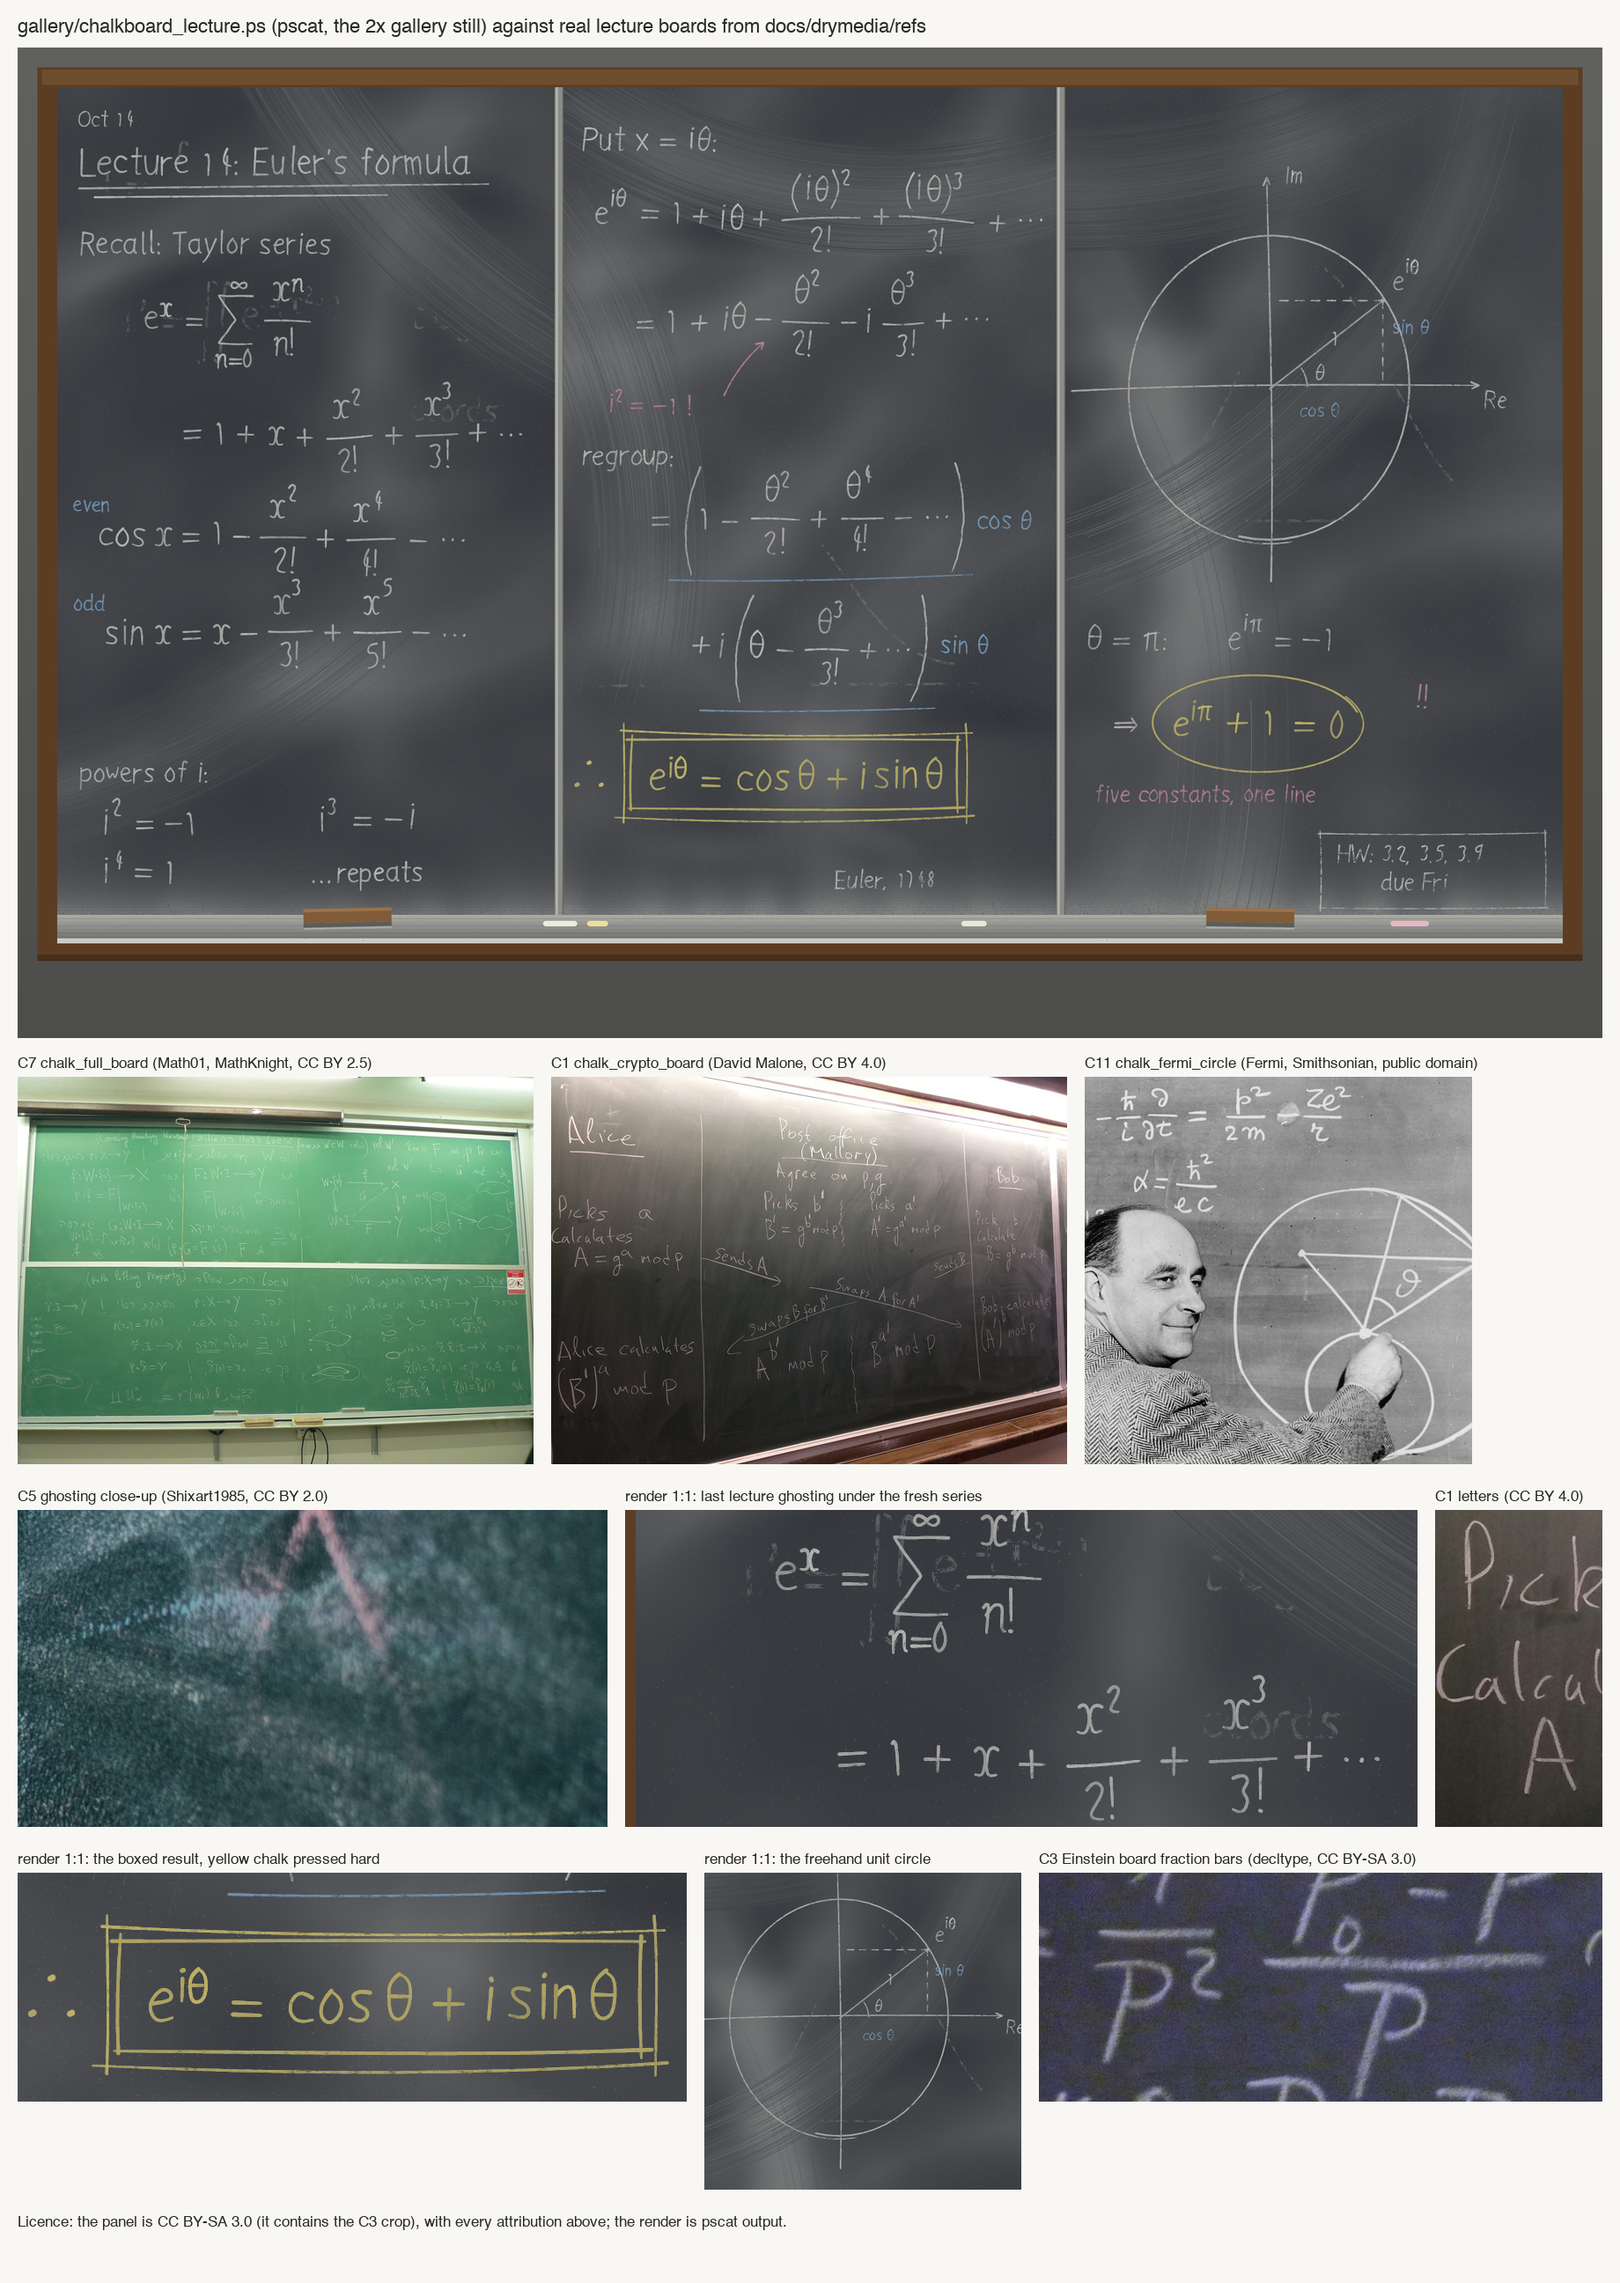
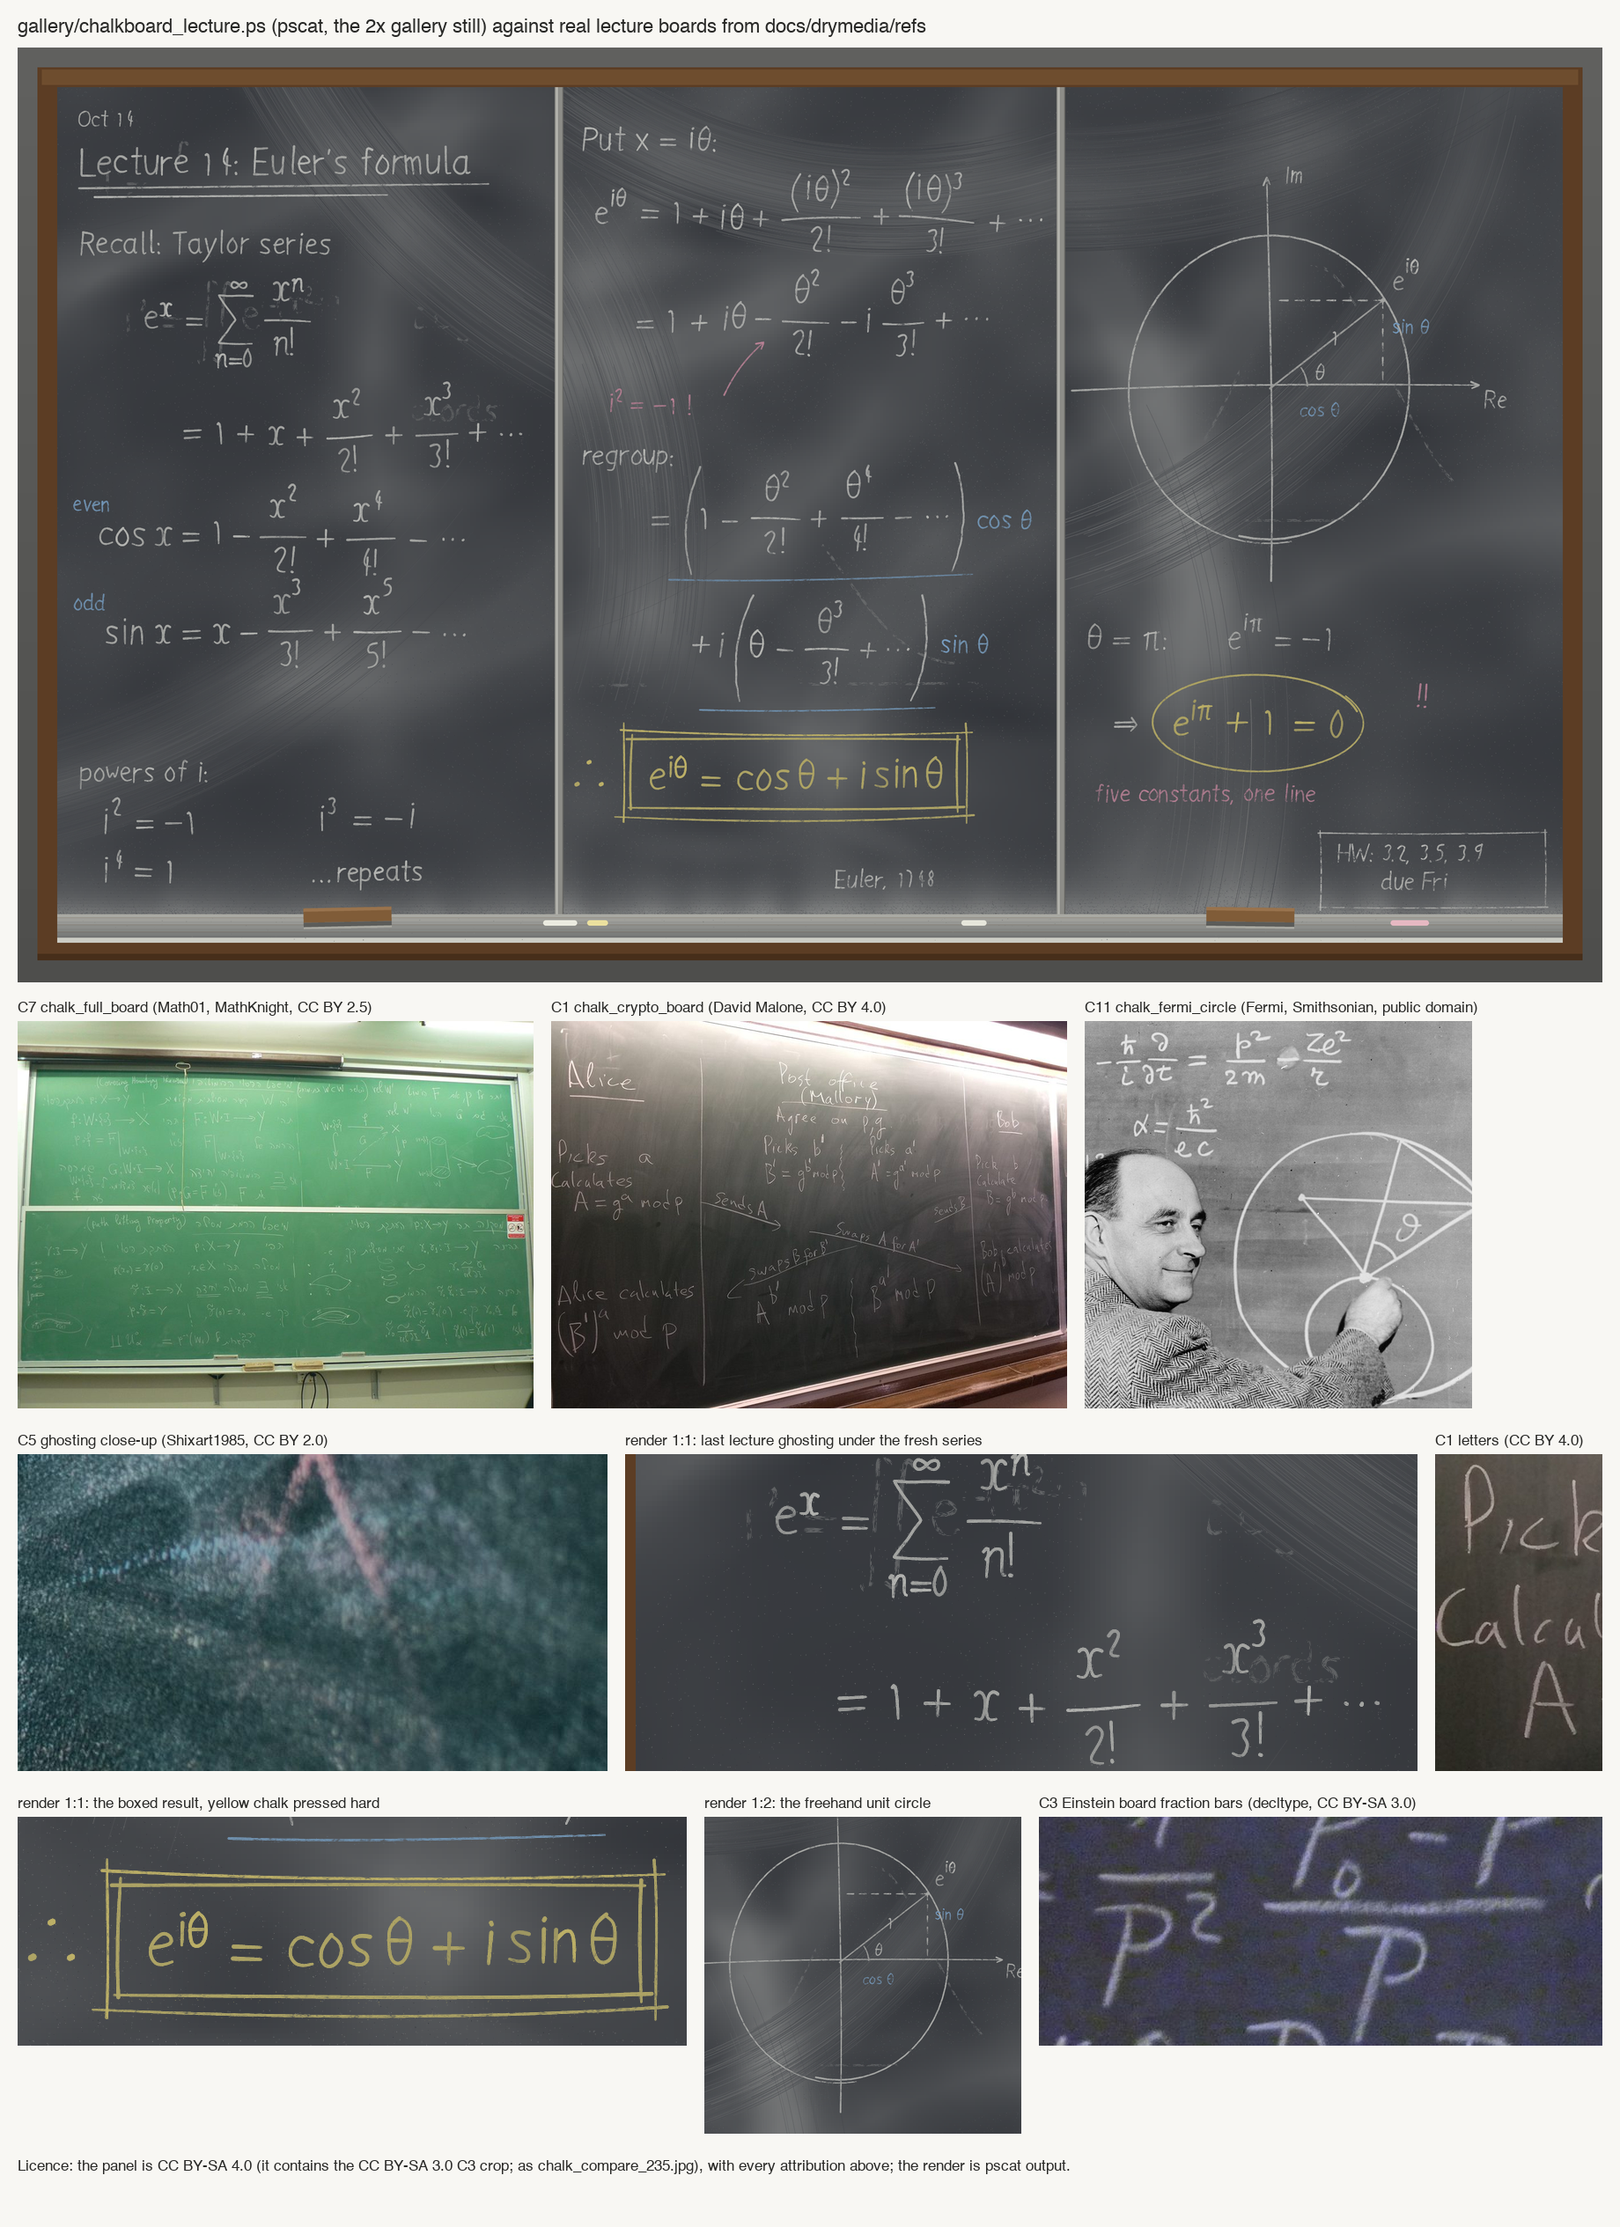
gallery: Lecture 14 -- balance the wall margins; notes and comparison fixes (#238)
Claude-Session: https://claude.ai/code/session_01GTbCLDB6QC7UV1i7qukUEL

diff --git a/docs/drymedia/prototypes/lecture_compare.py b/docs/drymedia/prototypes/lecture_compare.py
@@ -9,7 +9,7 @@ repo root:
         gallery/renders/chalkboard_lecture.png docs/drymedia/lecture_compare_238.png
 
 Needs Pillow. The detail boxes are pixel boxes in the 2x still
-(2880x1800).
+(2880x1700).
 """
 import sys
 from PIL import Image, ImageDraw, ImageFont
@@ -55,7 +55,7 @@ row3 = [
 ]
 row4 = [
     ('render 1:1: the boxed result, yellow chalk pressed hard', render.crop((1000, 1180, 1760, 1440))),
-    ('render 1:1: the freehand unit circle', render.crop((1960, 280, 2700, 1020)).resize((360, 360), Image.LANCZOS)),
+    ('render 1:2: the freehand unit circle', render.crop((1960, 280, 2700, 1020)).resize((360, 360), Image.LANCZOS)),
     ('C3 Einstein board fraction bars (decltype, CC BY-SA 3.0)', fit_h(ref('chalk_einstein_fraction_bars'), 260)),
 ]
 
@@ -81,5 +81,5 @@ for row in (row2, row3, row4):
         canvas.paste(im, (x, y + lab - 8))
         x += im.width + pad
     y += row_height(row) + pad
-d.text((pad, y), 'Licence: the panel is CC BY-SA 3.0 (it contains the C3 crop), with every attribution above; the render is pscat output.', font=small, fill=ink)
+d.text((pad, y), 'Licence: the panel is CC BY-SA 4.0 (it contains the CC BY-SA 3.0 C3 crop; as chalk_compare_235.jpg), with every attribution above; the render is pscat output.', font=small, fill=ink)
 canvas.save(out, optimize=True)

diff --git a/docs/drymedia/REFERENCES.md b/docs/drymedia/REFERENCES.md
@@ -51,7 +51,7 @@ The comparison panels in `prototypes/` (`chalk_compare.jpg`) contain crops from 
 
 It is CC BY-SA 4.0, with all five attributions.
 
-`lecture_compare_238.png` (#238) puts the `gallery/chalkboard_lecture.ps` still above C7, C1, C11 (Fermi), C5 and C3, with 1:1 details of the render. It contains the C3 crop, so it is CC BY-SA 3.0, with every attribution. It is built by `prototypes/lecture_compare.py`.
+`lecture_compare_238.png` (#238) puts the `gallery/chalkboard_lecture.ps` still above C7, C1, C11 (Fermi), C5 and C3, with 1:1 details of the render. It contains the C3 crop (CC BY-SA 3.0), so like `chalk_compare_235.jpg` it is CC BY-SA 4.0, with every attribution. It is built by `prototypes/lecture_compare.py`.
 
 The crayon comparison panels (#239) are built by `prototypes/crayon_compare.py`. `crayon_compare.png` uses only the CC0 crops from MrAlanKoh's rhino drawing, so it stays CC0 apart from pscat's own renders. `crayon_compare_figure.png` contains `crayon_child_tadpole_3y`, so it is CC BY-SA 3.0, with the source's attribution.
 
@@ -84,8 +84,8 @@ reuse; the others add nothing the crops above lack:
 | C7 | `chalk_full_board` | A full lecture board in two sliding panels. Lines are about 1.6–2× cap height apart. Text is roughly upright with drifting baselines, plus double underlines, arrows, small diagrams and vertical dividers. Two felt erasers sit on the ledge. | Board layout data for #237/#238. Cap height is about 1/11 of a panel's height. Stroke/cap is about 1/13 here, with a thicker stick than C1. |
 | C8 | `chalk_double_underline` | A "double underline" is two separate strokes, not parallel. The second is shorter and converges on the first. | An underline is two strokes with independent jitter. Never offset copies. |
 | C9 | `chalk_ledge_erasers` | Erasers on the tray sit in a light halo of fallen dust. The tray lip reads lighter than the wall below it. | Ledge dust is a fallout deposit concentrated at the tray, densest around erasers. |
-| C11 | `chalk_fermi_circle` | Fermi's board (1940s press photo): a diagram drawn freehand at lecture scale. The circles are slightly out of round and their strokes are heavy and even. The formulas above it are written larger than the diagram's labels. | Diagrams are drawn bigger and bolder than the writing. A freehand circle is one long stroke whose closure overshoots. Used for #238's unit circle. |
 | C10 | `chalk_FAKE_font_composite` | **What a fake looks like:** a TeX font pasted onto a board photo. Strokes are uniform, perfectly white and perfectly smooth, with typeset spacing and identical repeated glyphs. | The negative example for #238. Every trait above is missing here. |
+| C11 | `chalk_fermi_circle` | Fermi's board (1940s press photo): a diagram drawn freehand at lecture scale. The circles are slightly out of round and their strokes are heavy and even. The formulas above it are written larger than the diagram's labels. | Diagrams are drawn bigger and bolder than the writing. A freehand circle is one long stroke whose closure overshoots. Used for #238's unit circle. |
 
 ### Board numbers (for #236, #237, #238)
 

diff --git a/notes/238-chalkboard-lecture.md b/notes/238-chalkboard-lecture.md
@@ -38,12 +38,14 @@ from mathkit (#237), and the chalk and board from drychalk (#235).
     afterwards.
   - No stroke crosses a joint, because the next panel's board would cover it.
   - Each panel's `/Tray` segment meets the next with no gap.
-- **The piece's names live in `lectdict`.** That keeps gs's userdict lookups
-  fast (notes/235), and every name carries an `lc` prefix. Two collisions
-  happened before the prefix:
-  - a helper named `loop`;
-  - a variable named `lt`, which shadowed the operator for the rest of the
-    page.
+- **The piece's names live in `lectdict`,** which keeps gs's userdict
+  lookups fast (notes/235). The procedures and globals carry an `lc` prefix;
+  short locals do not.
+- **Never `def` an operator's name in a piece.** handscript and strokeglyphs
+  are not bound (rule 5's list covers artkit, paintkit, drykit, drychalk and
+  mathkit), so they look operators up at run time through whatever dict is
+  on top, and a private dict doesn't protect them. A helper named `loop` and
+  a local named `lt` each broke the page that way.
 - **A `/Ghost` procedure passed through a helper must be `load`ed**
   (`/Ghost /bgh load`). Otherwise building the dict runs it.
 - **`mkframe` takes `llx lly urx ury`,** not `x y w h`.
@@ -52,15 +54,19 @@ from mathkit (#237), and the chalk and board from drychalk (#235).
   the layout's irregularity rather than fixed coordinates.
 - **Size against the reference numbers.** The stroke width is 1/16 to 1/18
   of cap height, inside C1–C7's range. The cap height is about 1/30 of the
-  board, smaller than C7's 1/11 of a panel: a whole derivation has to fit on
-  one board.
+  board, against about 1/12 to 1/22 in C1 and C7. A whole derivation has to
+  fit on one board, and a bigger hand means fewer terms per line and fewer
+  lines. That trade-off is left to the maintainer's eye.
 
 **Cost** (CPU `user`, release build, 144 dpi, a shared machine):
 
 | | pscat | gs 10 |
 |---|---|---|
-| the 2x gallery still (`2 2 scale`, `--page 2880x1800`) | 7.2s | |
-| `--dpi 144` / `-r144` | 7.2s | 3.4s |
+| the 2x gallery still (`2 2 scale`, `--page 2880x1700`) | 7.2–8.5s | |
+| `--dpi 144` / `-r144` | 7.2s | 3.4–4.0s |
+
+The gs render matches pscat's by eye. The mean luma difference is 1.1/255,
+measured against no control.
 
 This is well under DRYMEDIA.md 6.2's 30 s board budget. The piece lints
 clean (`--lint`). It isn't in the CI lint list, so it adds no CI time.

diff --git a/HANDOFF.md b/HANDOFF.md
@@ -643,8 +643,10 @@ renders eight examples in both and compares block-downsampled output).
    #238 is the chalk gallery piece, `gallery/chalkboard_lecture.ps`: Euler's
    formula on three `dcboard` panels. Draw each panel's chalk right after
    its own `dcboard`, because `dcchalk` takes the last board as its
-   surface. A `/Ghost` proc that passes a procedure must `load` it, and a
-   piece's names belong in its own dict (`notes/238-chalkboard-lecture.md`).
+   surface. A `/Ghost` proc that passes a procedure must `load` it. Never
+   `def` an operator's name (`loop`, `lt`) in a piece: handscript and
+   strokeglyphs aren't bound and will pick it up
+   (`notes/238-chalkboard-lecture.md`).
    #239 shipped `lib/drycrayon.ps` (`dy-`): `dycrayon` (a core and a rim
    `dkstroke` per subpath, one wax level each), `dypaper`, the crayon box
    (`dybox`, `dycolors`, `dycolor`) and six child motions with paintkit's
